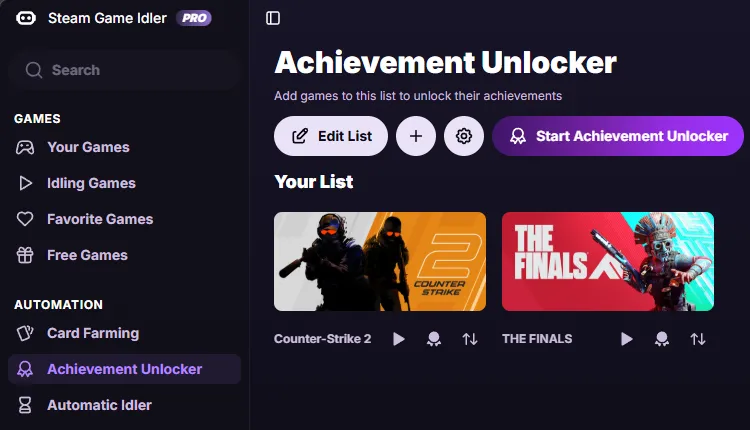
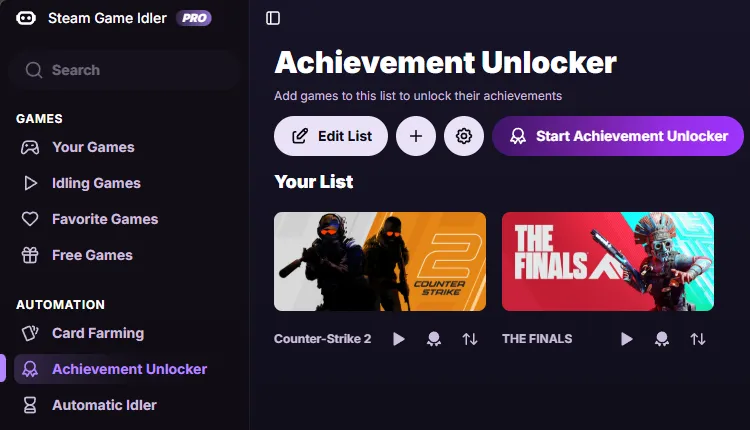
refactor(ui): improve sidebar styling (#1230)

diff --git a/src/components/ui/SideBar.tsx b/src/components/ui/SideBar.tsx
@@ -123,7 +123,7 @@ export default function SideBar(): ReactElement {
     return (
       <div
         className={cn(
-          'px-1.5 py-1 mb-0 text-[12px] font-bold text-content uppercase tracking-wider select-none',
+          'px-4 py-1 mb-0 text-[12px] font-bold text-content uppercase tracking-wider select-none',
           'transition-all ease-in-out whitespace-nowrap truncate',
           header !== 'Games' ? 'mt-4' : 'mt-0',
         )}
@@ -146,10 +146,25 @@ export default function SideBar(): ReactElement {
         {renderSectionHeader(index)}
 
         <div className='flex w-full'>
+          {/* Left indicator */}
+          {!sidebarCollapsed && (
+            <div
+              className={cn(
+                'mr-2 shrink-0 rounded-r-md transition-transform duration-150',
+                'w-1.5 h-7',
+                isCurrentPage ? 'bg-dynamic scale-y-100' : 'scale-y-0',
+              )}
+              aria-hidden
+            />
+          )}
           <div
             className={cn(
-              'px-1.5 py-1 rounded-lg duration-150 cursor-pointer active:scale-95 border border-transparent w-full overflow-hidden',
-              isCurrentPage ? 'bg-dynamic/10 text-dynamic' : 'text-altwhite hover:bg-item-hover',
+              'px-1.5 py-[5px] rounded-lg duration-150 cursor-pointer active:scale-95 w-full overflow-hidden',
+              isCurrentPage
+                ? sidebarCollapsed
+                  ? 'bg-dynamic/10 text-dynamic'
+                  : 'bg-linear-to-r from-dynamic/20 via-dynamic/2 to-dynamic/0 text-dynamic'
+                : 'text-altwhite hover:bg-item-hover',
               item.customClassName,
             )}
             onClick={() => {
@@ -259,7 +274,12 @@ export default function SideBar(): ReactElement {
           </Button>
         </div>
 
-        <div className='flex flex-col gap-1.5 p-2 w-full min-w-0 overflow-y-auto'>
+        <div
+          className={cn(
+            'flex flex-col gap-1.5 p-2 w-full min-w-0 overflow-y-auto',
+            !sidebarCollapsed ? 'pl-0' : undefined,
+          )}
+        >
           {mainSidebarItems.map((item, idx) => renderSidebarItem(item, idx))}
         </div>
 
